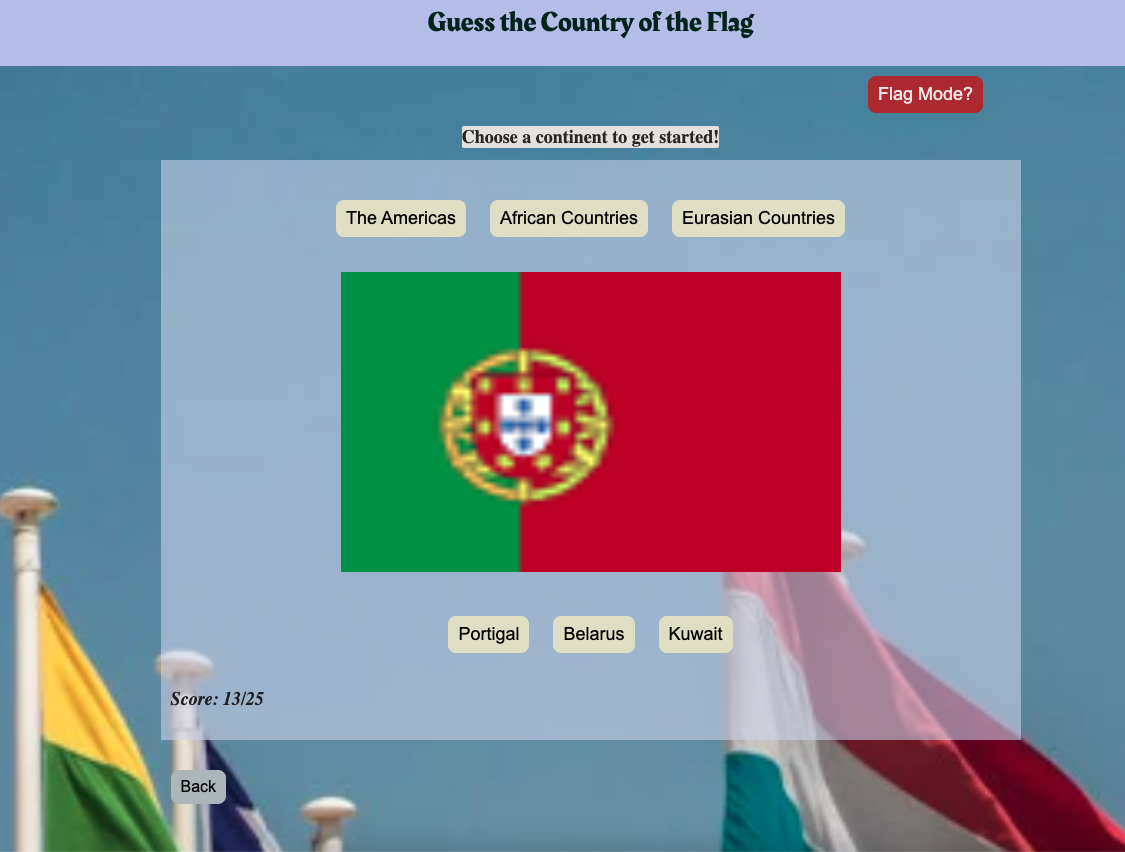
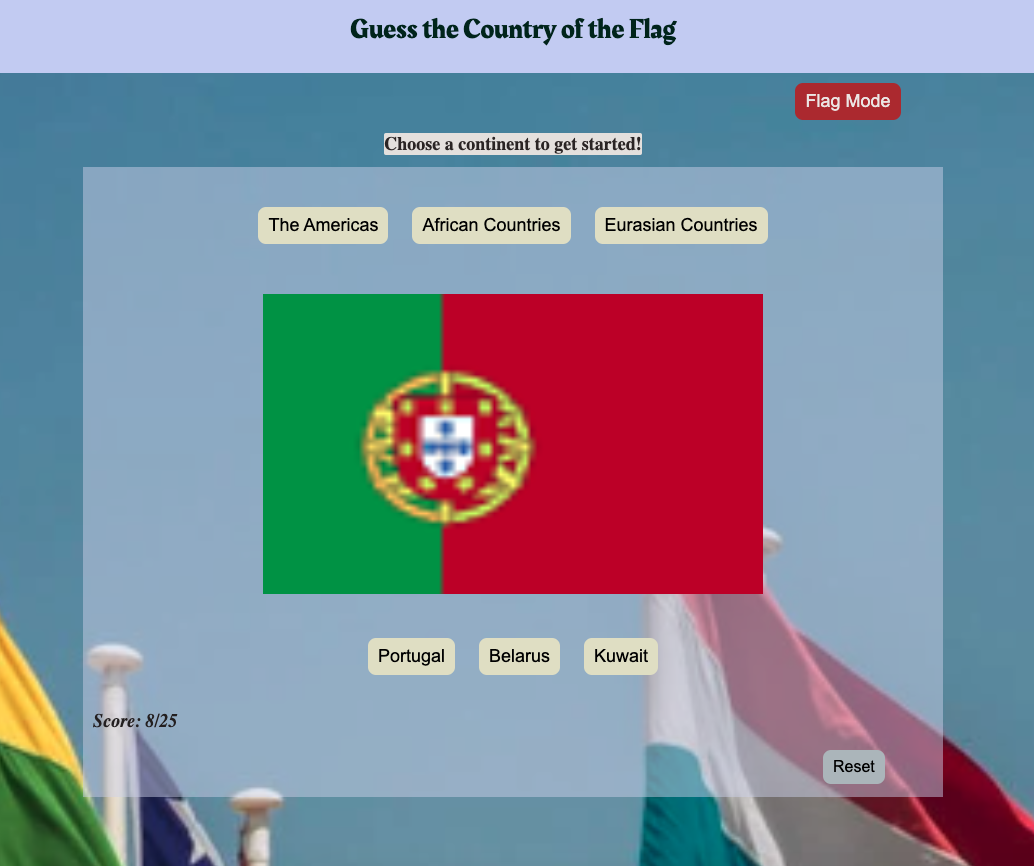
update css, README, background color and title font

Changed region(s): [[0.0, 0.1221, 1.0, 1.0], [0.0, 0.0, 1.0, 0.1526], [0.7737, 0.7324, 0.8046, 0.7629]]

diff --git a/css/style.css b/css/style.css
@@ -8,7 +8,7 @@ html {
 }
 body {
   background-color: #8ac9d7;
-  --body-bg: #d3d5f2;
+  --body-bg: #3694c0;
   --inverted-btn-text-color: #a67c7c;
   --light-dark-btn-bg: #bcbfe3;
   --waving-flag-btn-content: "Dark Mode";
@@ -40,19 +40,20 @@ body.dark {
 }
 
 h1 {
-  background: #e7e4e1;
-  color: #2f2828;
+  background: #dcd9d5b1;
+  color: #141313;
   font-size: 18px;
   border-radius: 2px;
 }
 
 
 h2 {
-  font-family: "Rakkas", serif;
-  font-weight: 100;
+  font-family: "Unbounded", sans-serif;
+  font-optical-sizing:auto;
+  font-weight: 400;
   font-style: normal;
   font-size: 28px;
-  color: rgb(4, 41, 29);
+  color: rgb(24, 25, 25);
 }
 
 h3 {
@@ -75,16 +76,14 @@ h3 {
 #reset-button {
   display: flex;
   font-size: 16px;
-  /* flex-direction: column; */
-  /* padding: 80px 200px; */
   align-content:flex-end;
   align-items:flex-end;
   justify-content: flex-end;
   position: relative;
   cursor: pointer;
-  background-color: #b5bdc2;
-  margin-top: 10px;
-  margin-left: 700px;
+  background-color: #a8afb4;
+  margin-top: 0px;
+  margin-left: 740px;
 }
 
 nav {
@@ -93,7 +92,7 @@ nav {
   border-radius: none;
   justify-content: center;
   align-items: center;
-  background-color: #bcc3ed;
+  background-color: #60a7d5;
   margin-top: 0px;
   border-top:0dvh;
 }
@@ -108,7 +107,9 @@ nav {
   color: #ede9e7;
 }
 .flag {
-  margin-top: 20px;
+  margin-top: 15px;
+  justify-content: center;
+  align-items: center;
 }
 
 button {
@@ -139,10 +140,10 @@ button {
 }
 
 .board-container {
-  background-color: #d3d6ef93;
+  background-color: #d3d6e97a;
   width: 860px;
-  height: 560px;
+  height: 630px;
+  border-radius: 5px;
 }
-
 
 

diff --git a/js/app.js b/js/app.js
@@ -59,9 +59,9 @@ function init () {
   buttonElement2.style.display = 'none'
   buttonElement3.style.display = 'none'
   messageEl.style.display='none'
-  theAmericasButton.style.display = ''
-  eurasianButton.style.display = ''
-  africanButton.style.display = ''
+  // theAmericasButton.style.display = ''
+  // eurasianButton.style.display = ''
+  // africanButton.style.display = ''
   imageFlag.style.display = ''
   resetBtnEl.style.display = 'none'
     options = ''
@@ -70,6 +70,7 @@ function init () {
     score = 0
 }
 function resetQuestions(){
+
   init()
 }
 
@@ -173,9 +174,9 @@ function render () {
   buttonElement1.style.display = ''
   buttonElement2.style.display = ''
   buttonElement3.style.display = ''
-  theAmericasButton.style.display = 'none'
-  africanButton.style.display = 'none'
-  eurasianButton.style.display = 'none'
+  // theAmericasButton.style.display = 'none'
+  // africanButton.style.display = 'none'
+  // eurasianButton.style.display = 'none'
   resetBtnEl.style.display = ''
   // flagsLeft = currentCategory.length
   if(flagsLeft !== 0){

diff --git a/index.html b/index.html
@@ -18,7 +18,8 @@
   <link rel="stylesheet" href="./css/style.css">
   <link rel="preconnect" href="https://fonts.googleapis.com">
   <link rel="preconnect" href="https://fonts.gstatic.com" crossorigin>
-  <link href="https://fonts.googleapis.com/css2?family=Londrina+Shadow&family=Rakkas&family=Rubik+Doodle+Shadow&display=swap" rel="stylesheet">
+  <link href="https://fonts.googleapis.com/css2?family=Unbounded:wght@200..900&display=swap" rel="stylesheet">
+
 </head>
 <body>
   <nav>

diff --git a/README.md b/README.md
@@ -1,6 +1,6 @@
 ![](assets/images/image1.png)
 
-======* Guess the Country of the Flag *======
+## Guess the Country of the Flag
 ---
 
 # `Description:`
